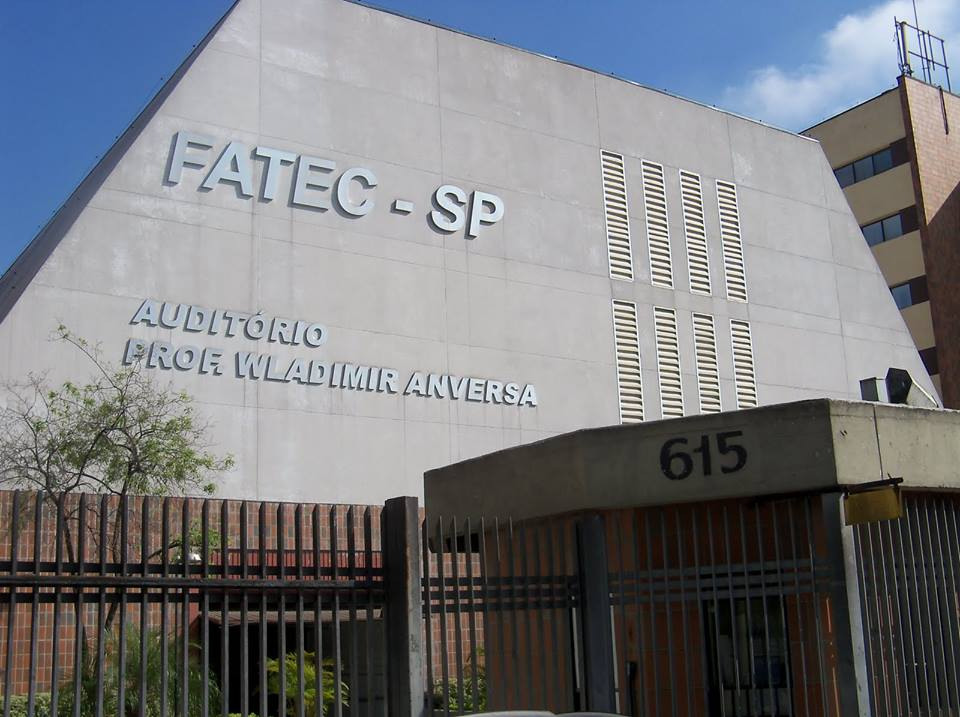
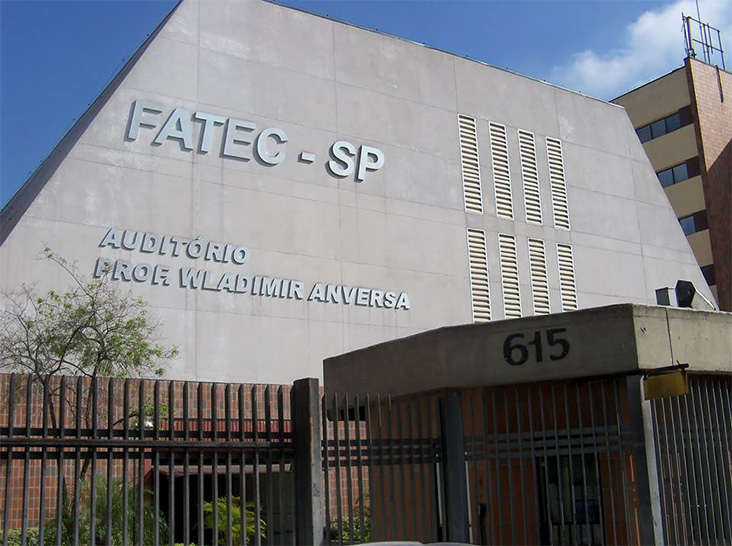
update: update slider

Changed region(s): [[0.6311, 0.2179, 0.7814, 0.4048], [0.7213, 0.4359, 0.7814, 0.5293], [0.9317, 0.0311, 0.9617, 0.0934]]

diff --git a/website - fatecsp/index.html b/website - fatecsp/index.html
@@ -42,13 +42,24 @@
   <div class="slider">
     <ul class="slides">
       <li>
-        <img src="images/foto-slider-1.jpg">
+        <img src="images/foto-fachada-fatec-sp.jpg">
+        <div class="caption center-align">
+          <h2 class="bold grey-text text-lighten-5">VENHA ESTUDAR CONOSCO!!</h2>
+          <h5 class="light grey-text text-lighten-5">Considerado uma das melhores FATECs.</h5>
+          <h5 class="light grey-text text-lighten-5">Reconhecido no mercado de trabalho.</h5>
+        </div>
       </li>
       <li>
-        <img src="images/16-FatecSP.jpg">
+        <img class="responsive-img center" src="images/foto-mapa-fatec-sp.jpg">
+        <div class="caption left-align">
+          <h2 class="bold">LOCALIZAÇÃO PRIVILEGIADA</h2>
+          <h5 class="light grey-text text-lighten-5">Praça Coronel Fernando Prestes, 30</h5>
+          <h5 class="light grey-text text-lighten-5">Bom Retiro - São Paulo-SP - CEP 01124-060</h5>
+          <p>*Próximo ao metrô Tiradentes</p>
+        </div>
       </li>
       <li>
-        <img src="images/fateclogo2.png">
+        <img src="images/fotoFatec.jpg">
       </li>
     </ul>
   </div>
@@ -58,8 +69,9 @@
       <div class="col s12 m3">
         <ul class="collapsible" data-collapsible="accordion">
           <li>
+            <!-- OPC - INSTITUCIONAL -->
             <div class="collapsible-header red darken-1 white-text waves-effect"><i class="material-icons">filter_drama</i>Institucional</div>
-            <div class="collapsible-body collection no-padding" style="display: block;">
+            <div class="collapsible-body collection no-padding">
                 <ul>
                   <li><a href="#!" class="collection-item black-text waves-effect">A FATEC-SP</a></li>
                   <li><a href="#!" class="collection-item black-text waves-effect">Como Chegar</a></li>
@@ -69,34 +81,84 @@
             </div>
           </li>
           <li>
-            <div class="collapsible-header red darken-1 white-text"><i class="material-icons">filter_drama</i>Acadêmico</div>
-            <div class="collapsible-body"><span>Lorem ipsum dolor sit amet.</span></div>
+            <!-- OPC - ACADEMICO -->
+            <div class="collapsible-header red darken-1 white-text waves-effect"><i class="material-icons">filter_drama</i>Acadêmico</div>
+            <div class="collapsible-body collection no-padding">
+                <ul>
+                  <li><a href="#!" class="collection-item black-text waves-effect">Secretaria Acadêmica</a></li>
+                  <li><a href="#!" class="collection-item black-text waves-effect">Biblioteca</a></li>
+                  <li><a href="#!" class="collection-item black-text waves-effect">Docentes</a></li>
+                  <li><a href="#!" class="collection-item black-text waves-effect">Concursos</a></li>
+                  <li><a href="#!" class="collection-item black-text waves-effect">Processo Seletivo Simplificado</a></li>
+                  <li><a href="#!" class="collection-item black-text waves-effect">Estágios</a></li>
+                </ul>
+            </div>
           </li>
           <li>
-            <div class="collapsible-header red darken-1 white-text"><i class="material-icons">filter_drama</i>Pesquisa</div>
-            <div class="collapsible-body"><span>Lorem ipsum dolor sit amet.</span></div>
+            <!-- OPC - PESQUISA -->
+            <div class="collapsible-header red darken-1 white-text waves-effect"><i class="material-icons">filter_drama</i>Pesquisa</div>
+            <div class="collapsible-body collection no-padding">
+                <ul>
+                  <li><a href="#!" class="collection-item black-text waves-effect">Laboratórios de Pesquisa</a></li>
+                  <li><a href="#!" class="collection-item black-text waves-effect">Programa PIBIC-CNPq(Bolsa de Iniciação Científica)</a></li>
+                </ul>
+            </div>
           </li>
           <li>
-            <div class="collapsible-header red darken-1 white-text"><i class="material-icons">filter_drama</i>Publicações</div>
-            <div class="collapsible-body"><span>Lorem ipsum dolor sit amet.</span></div>
+            <!-- OPC - PUBLICAÇÕES -->
+            <div class="collapsible-header red darken-1 white-text waves-effect"><i class="material-icons">filter_drama</i>Publicações</div>
+            <div class="collapsible-body collection no-padding">
+                <ul>
+                  <li><a href="#!" class="collection-item black-text waves-effect">CNPq</a></li>
+                  <li><a href="#!" class="collection-item black-text waves-effect">Boletim Técnico</a></li>
+                </ul>
+            </div>
           </li>
           <li>
-            <div class="collapsible-header red darken-1 white-text"><i class="material-icons">filter_drama</i>Serviçosà Comunidade</div>
-            <div class="collapsible-body"><span>Lorem ipsum dolor sit amet.</span></div>
+            <!-- OPC - SERVIÇOS A COMUNIDADE -->
+            <div class="collapsible-header red darken-1 white-text waves-effect"><i class="material-icons">filter_drama</i>Serviços à Comunidade</div>
+            <div class="collapsible-body collection no-padding">
+                <ul>
+                  <li><a href="#!" class="collection-item black-text waves-effect">Programa de Atualização Tecnológica</a></li>
+                  <li><a href="#!" class="collection-item black-text waves-effect">Coral COPAS</a></li>
+                  <li><a href="#!" class="collection-item black-text waves-effect">Banda Fá Maior</a></li>
+                  <li><a href="#!" class="collection-item black-text waves-effect">Curso de Reforço de Física Aplicada</a></li>
+                  <li><a href="#!" class="collection-item black-text waves-effect">Plano de Reforço da Área de Matemática / DEG</a></li>
+                </ul>
+            </div>
           </li>
           <li>
-            <div class="collapsible-header red darken-1 white-text"><i class="material-icons">filter_drama</i>Grupos Discentes</div>
-            <div class="collapsible-body"><span>Lorem ipsum dolor sit amet.</span></div>
+            <!-- OPC - GRUPOS DISCENTES -->
+            <div class="collapsible-header red darken-1 white-text waves-effect"><i class="material-icons">filter_drama</i>Grupos Discentes</div>
+            <div class="collapsible-body collection no-padding">
+                <ul>
+                  <li><a href="#!" class="collection-item black-text waves-effect">Fórmula SAE</a></li>
+                  <li><a href="#!" class="collection-item black-text waves-effect">Mini Baja</a></li>
+                </ul>
+            </div>
           </li>
           <li>
-            <div class="collapsible-header red darken-1 white-text"><i class="material-icons">filter_drama</i>Outros</div>
-            <div class="collapsible-body"><span>Lorem ipsum dolor sit amet.</span></div>
+            <!-- OPC - OUTROS -->
+            <div class="collapsible-header red darken-1 white-text waves-effect"><i class="material-icons">filter_drama</i>Outros</div>
+            <div class="collapsible-body collection no-padding">
+                <ul>
+                  <li><a href="#!" class="collection-item black-text waves-effect">Vídeos Institucionais</a></li>
+                  <li><a href="#!" class="collection-item black-text waves-effect">19º Congresso de Tecnologia</a></li>
+                  <li><a href="#!" class="collection-item black-text waves-effect">Atualização de Senha</a></li>
+                  <li><a href="#!" class="collection-item black-text waves-effect">Laboratório de Usinagem</a></li>
+                  <li><a href="#!" class="collection-item black-text waves-effect">Semana de Tecnologia e Meio Ambiente</a></li>
+                  <li><a href="#!" class="collection-item black-text waves-effect">Catálogo de FATEC-SP</a></li>
+                  <li><a href="#!" class="collection-item black-text waves-effect">Cursos da FATEC-SP</a></li>
+                  <li><a href="#!" class="collection-item black-text waves-effect">Visitas Monitoradas</a></li>
+                </ul>
+            </div>
           </li>
         </ul>
       </div>
       <div class="col s12 m9">
           <div class="card-panel">
             <h5 class="center-align">Destaques</h5>
+            <a href="#!" class="btn"></a>
           </div>
           <div class="card-panel">
             <h5 class="center-align">SEC - Seção de Cursos</h5>
